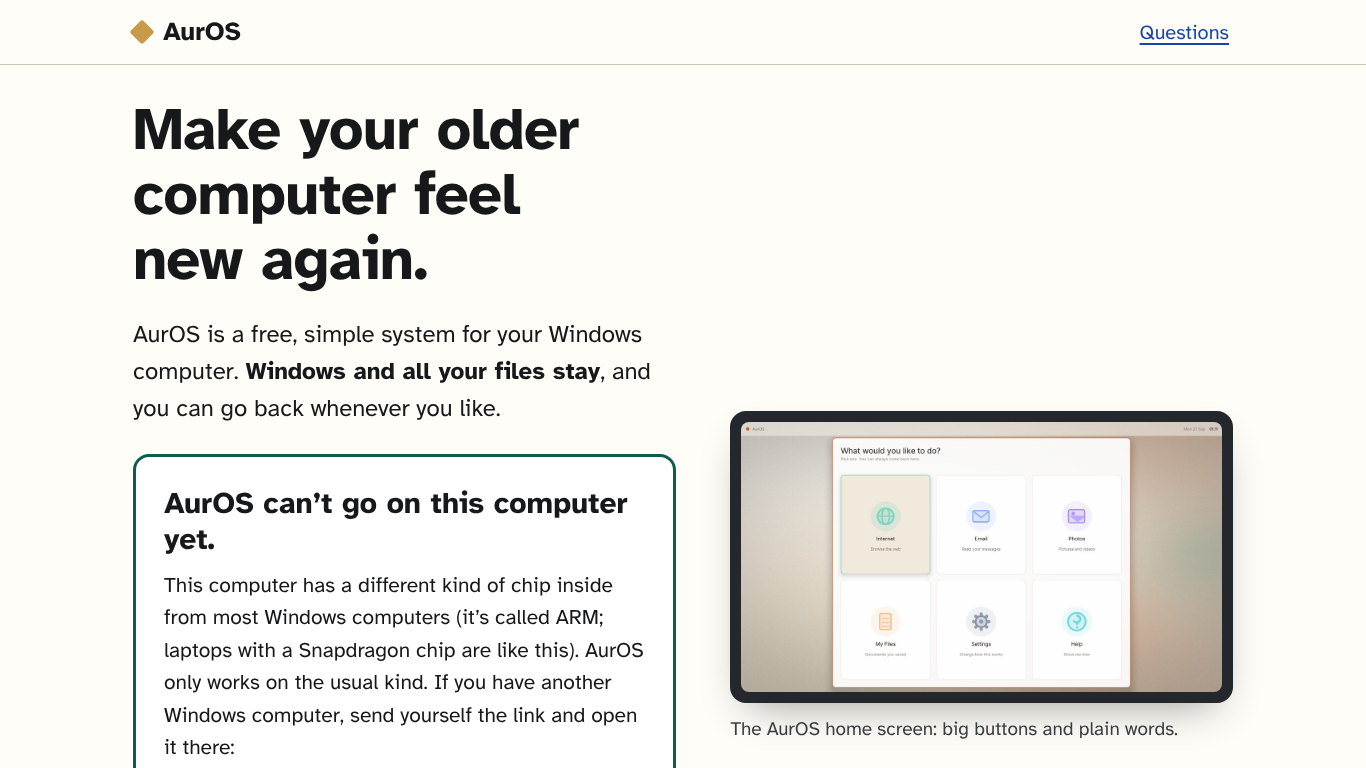
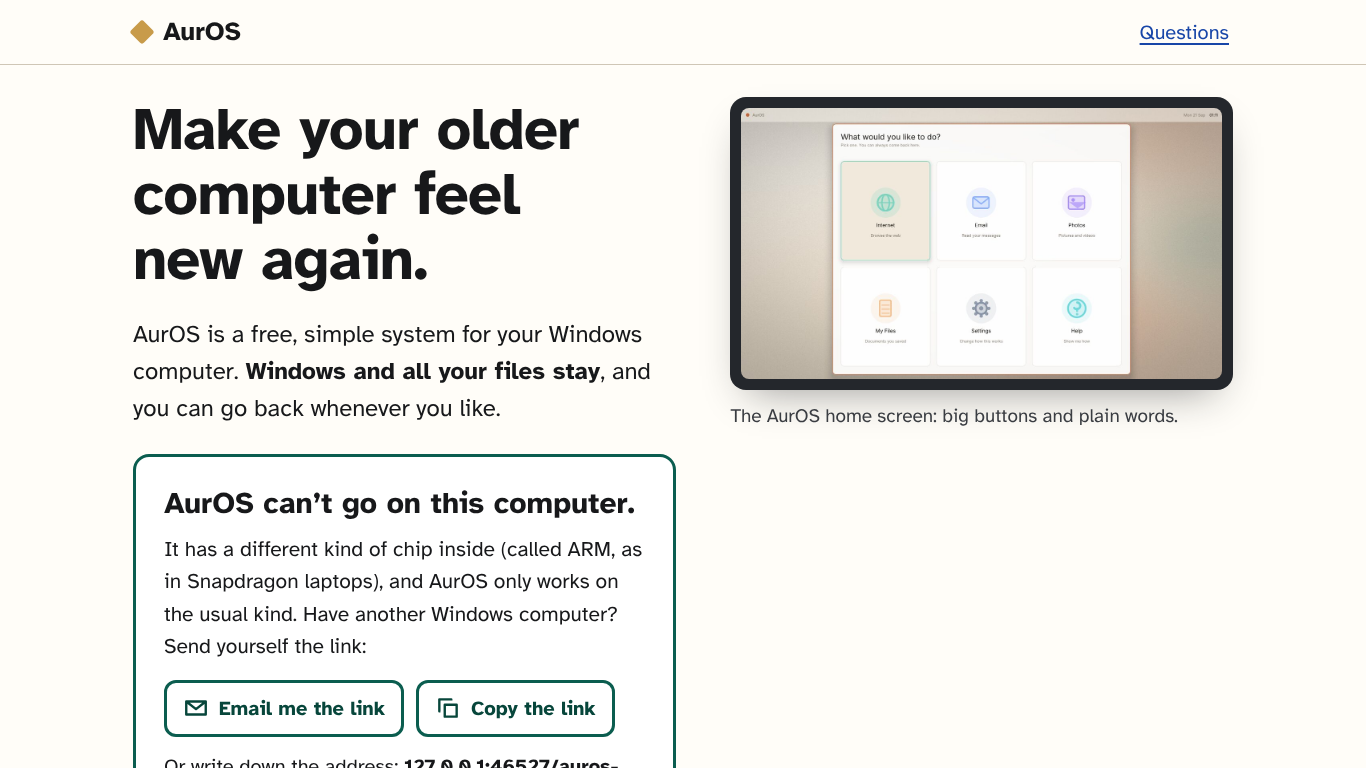
Website: plainer ARM message, no guessed button, shots refreshed
The ARM and 32-bit messages said "can't go on this computer yet", which
promises support nobody has planned, and their explanation pushed the
email and copy buttons below the first screen; both are shorter now and
the two buttons sit side by side on a wide screen.

The Smart App Control picture showed an "OK" button that nothing in our
research confirms; it is now only the message to recognise, and the text
says to close it. A wrong button label is worse than none for someone
who looks for exactly what the picture shows.

IDEAS.md describes the front door and where the drive story went.
Screenshots in docs/shots/website/ are from this version (check.mjs:
80 passed, 0 failed).

Claude-Session: https://claude.ai/code/session_017qioTeikWexSpAiM6y9oSA

diff --git a/website/index.html b/website/index.html
@@ -48,13 +48,13 @@
              AurOS can go on (assets/door.js). Never shown without script. -->
         <div class="elsewhere" id="elsewhere" hidden>
           <h2 class="else-title" data-kind="phone mac chromeos linux">Open this page on the Windows computer you want to change.</h2>
-          <h2 class="else-title" data-kind="arm win32">AurOS can&rsquo;t go on this computer yet.</h2>
+          <h2 class="else-title" data-kind="arm win32">AurOS can&rsquo;t go on this computer.</h2>
           <p data-kind="phone">You&rsquo;re on a phone or tablet, and AurOS goes on a Windows computer. Send yourself the link:</p>
           <p data-kind="mac">This is a Mac, and AurOS goes on a Windows computer. Send yourself the link:</p>
           <p data-kind="chromeos">This is a Chromebook, and AurOS goes on a Windows computer. Send yourself the link:</p>
           <p data-kind="linux">This computer isn&rsquo;t running Windows, and AurOS goes on a Windows computer. Send yourself the link:</p>
-          <p data-kind="arm">This computer has a different kind of chip inside from most Windows computers (it&rsquo;s called ARM; laptops with a Snapdragon chip are like this). AurOS only works on the usual kind. If you have another Windows computer, send yourself the link and open it there:</p>
-          <p data-kind="win32">This computer has the older, 32-bit kind of Windows, and AurOS needs the 64-bit kind. If you have another Windows computer, send yourself the link and open it there:</p>
+          <p data-kind="arm">It has a different kind of chip inside (called ARM, as in Snapdragon laptops), and AurOS only works on the usual kind. Have another Windows computer? Send yourself the link:</p>
+          <p data-kind="win32">It has the older, 32-bit kind of Windows, and AurOS needs the 64-bit kind. Have another Windows computer? Send yourself the link:</p>
           <div class="else-actions">
             <a class="btn2" id="mail-link" href="mailto:?subject=AurOS">
               <svg viewBox="0 0 24 24" aria-hidden="true" focusable="false"><path d="M3 6h18v12H3zM3 6l9 7 9-7" fill="none" stroke="currentColor" stroke-width="2.2" stroke-linejoin="round"/></svg>
@@ -223,13 +223,12 @@
                has no "Run anyway", so this is its own clearly separate path. -->
           <div class="sac unsigned-only" id="smart-app-control">
             <h4>Only if Windows says &ldquo;Smart App Control blocked an app that may be unsafe&rdquo;</h4>
-            <p>Some newer Windows&nbsp;11 computers have a setting called Smart App Control. It blocks programs Windows hasn&rsquo;t seen many times, and it has no Run anyway button. Nothing has been changed on your computer. To go on, switch that setting off:</p>
+            <p>Some newer Windows&nbsp;11 computers have a setting called Smart App Control. It blocks programs Windows hasn&rsquo;t seen many times, and it has no Run anyway button. Nothing has been changed on your computer. Close the message, then switch that setting off:</p>
             <div class="pics">
-              <figure class="replica" id="shot-sac-blocked" role="img" aria-label="Picture of the message Smart App Control blocked an app that may be unsafe. Press OK.">
+              <figure class="replica" id="shot-sac-blocked" role="img" aria-label="Picture of the message Smart App Control blocked an app that may be unsafe, naming AurOS-Setup.exe.">
                 <div class="r-dialog">
                   <p class="r-dialog-title">Smart App Control blocked an app that may be unsafe</p>
                   <p class="r-dialog-body">AurOS-Setup.exe</p>
-                  <div class="r-row r-right"><span class="tap">1</span><span class="r-btn r-primary hit">OK</span></div>
                 </div>
               </figure>
             </div>

diff --git a/website/assets/door.css b/website/assets/door.css
@@ -106,6 +106,7 @@ h4 { font-size: 23px; }
 .else-title { font-size: clamp(25px, 2.4vw, 30px); margin-bottom: 0.4em; }
 .elsewhere [data-kind] { display: none; }
 .else-actions { display: flex; flex-wrap: wrap; gap: 12px; margin-top: 4px; }
+.else-actions .btn2 { padding-inline: 16px; font-size: 20px; }
 .copied { min-height: 0; margin: 10px 0 0; font-weight: 700; color: var(--go); }
 .copied:empty { display: none; }
 .else-address { margin: 14px 0 0; font-size: 20px; }

diff --git a/website/IDEAS.md b/website/IDEAS.md
@@ -1,4 +1,25 @@
-# Website: the page is the drive
+# Website
+
+**Front door (`index.html`, `assets/door.css`, `assets/door.js`).** Written
+for one person: a great-grandmother on her own Windows PC. One sentence,
+one "Get AurOS" button (the href of `#get` is the only copy of the
+download address), then three picture steps of exactly what her screen
+shows, including the browser's and Windows' warnings about a program
+they haven't seen often (the installer is unsigned by decision, so these
+steps are permanent) and a separate Smart App Control path. The Windows
+boxes are HTML/CSS drawings with `shot-*` ids; swap in real screenshots
+from the e2e run when they exist. A Mac, phone, Chromebook, Linux or ARM
+Windows visit gets "Open this page on the Windows computer you want to
+change" with email and copy-link buttons. `node tools/site/check.mjs`
+keeps all of that true (first screen, sizes, contrast, links, no other
+servers).
+
+Everything below is the story page, which now lives at
+`how-it-works.html` ("for the curious"), without its checkbox gate.
+
+---
+
+## The story page: the page is the drive
 
 The first redesign read like every other product site: a hero, three
 cards, a features grid, a theme switcher. This one starts from a single
@@ -12,13 +33,13 @@ still work."), because it is the one with something to lose.
 
 | on the page | what it is on a disk | where |
 |---|---|---|
-| the top line | LBA 0, protective MBR | `index.html` |
+| the top line | LBA 0, protective MBR | `how-it-works.html` |
 | the partition table under the drive | the primary GPT at LBA 1, and also the menu | `#gpt-rows`, drawn by `drive.js` |
 | each section, with a coloured edge and its sector range | a partition: EFI, Windows (C:), the gap / AUROS-ROOT, AUROS-BOOT, Recovery | `[data-part]` |
 | the head in the left margin, sliding along a to-scale map | the read/write head; the LBA you are reading | `.ruler`, `moveHead()` |
 | the test results, as a SMART table | drive firmware; the head *parks* while you read it | `#smart` |
 | the known problems, as bad sectors (open) and remapped ones (fixed) | the grown defect list | `#defects` |
-| the footer and the download | the backup GPT header in the last sector | `#backup` |
+| the footer, linking to the front door's download | the backup GPT header in the last sector | `#backup` |
 
 Things you can do to it:
 
@@ -44,4 +65,5 @@ and the one number that matters next (real PCs resized: 0) is red.
 
 Kept from the first redesign: `desktop.html` (click around AurOS),
 `wallpaper.html` (press your own wallpaper) and `guide.html` (one page to
-print). The other pages redirect into the matching partition.
+print). The old addresses (`check`, `download`, `restart`, `safety`,
+`organizations`) redirect to the matching place on either page.
